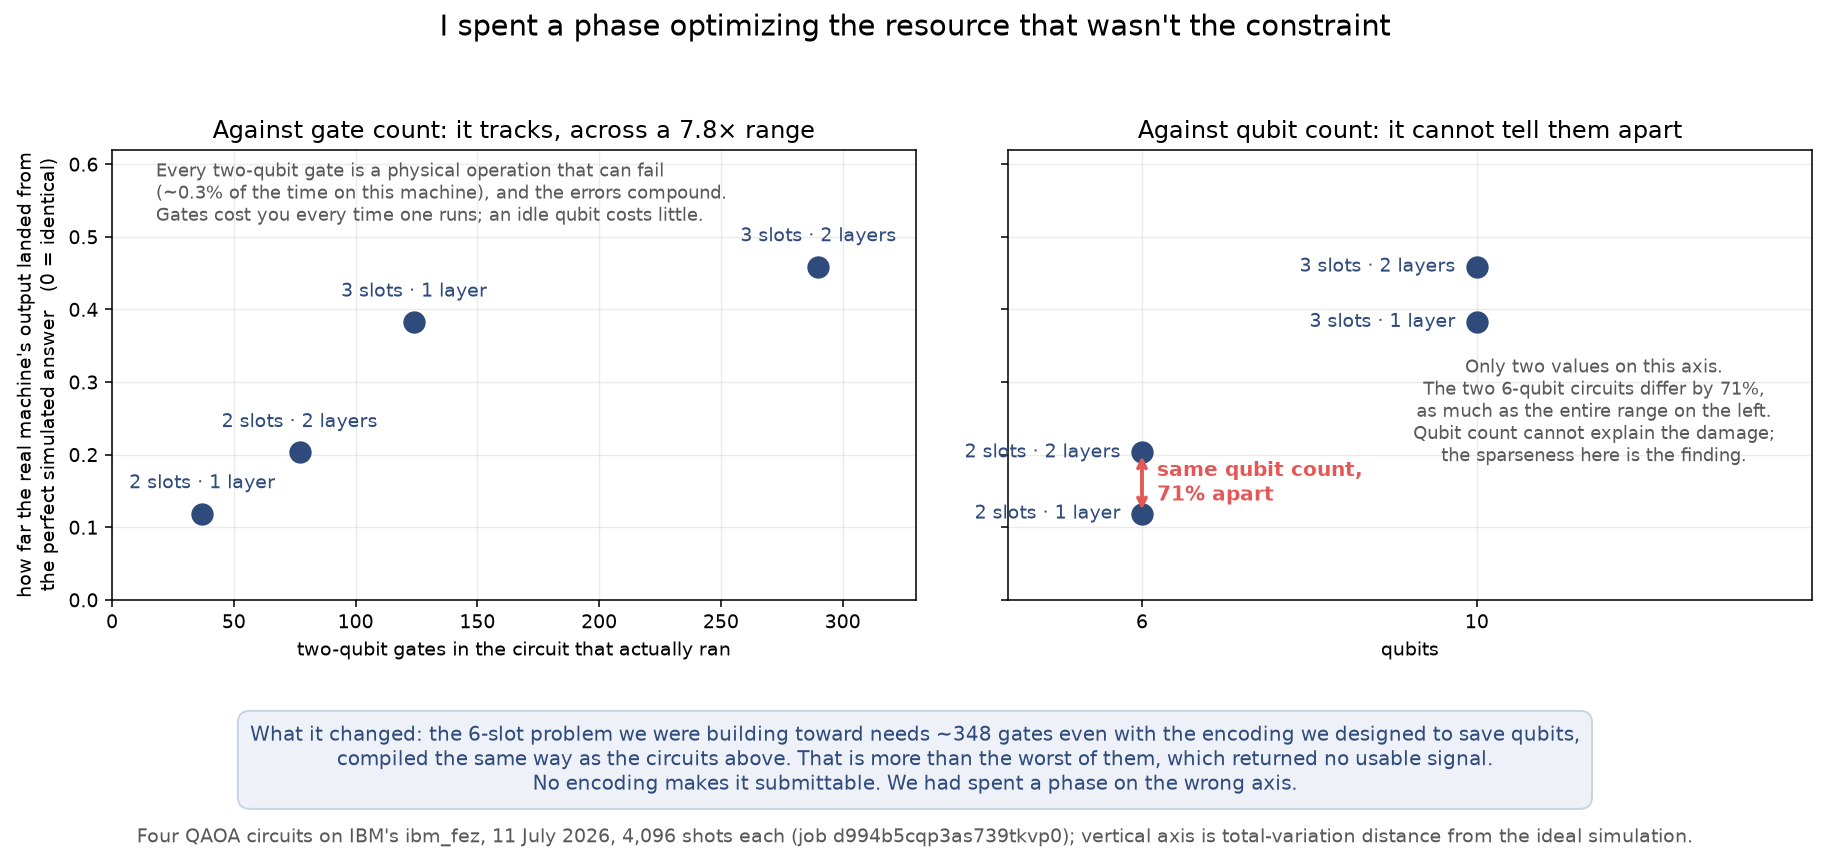
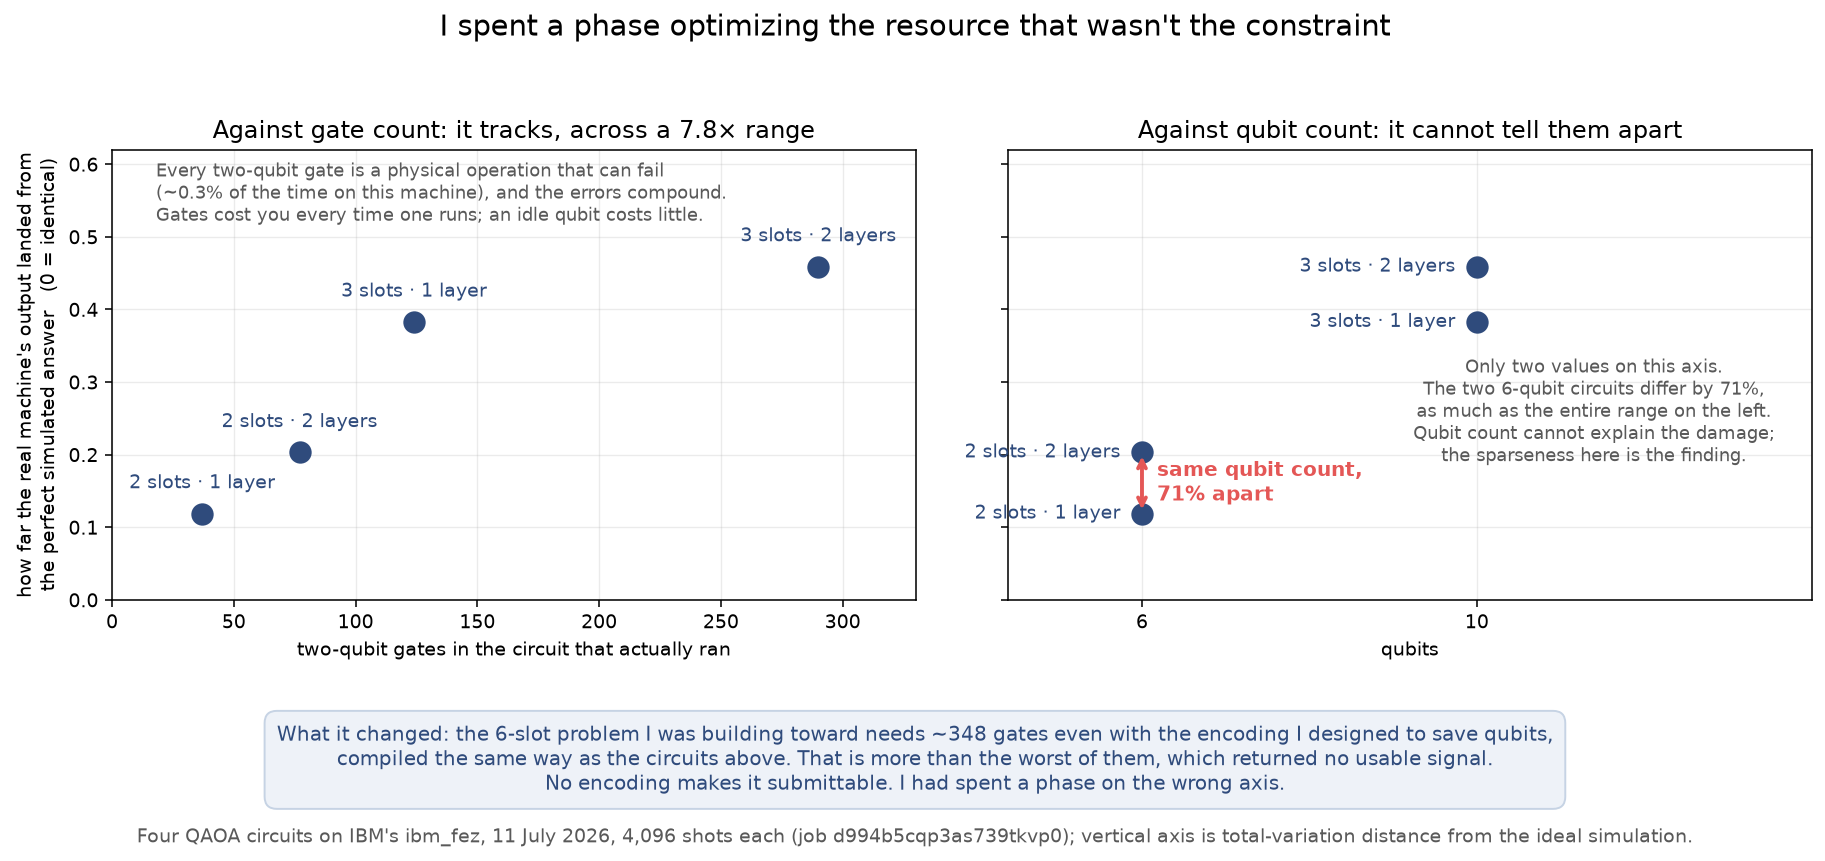
Figure text: first person

Changed region(s): [[0.1249, 0.8153, 0.8745, 0.8757], [0.2811, 0.9059, 0.7184, 0.9361]]

diff --git a/scripts/make_gates_vs_qubits_figure.py b/scripts/make_gates_vs_qubits_figure.py
@@ -196,10 +196,10 @@ def main() -> None:
     # a true claim look false. Like for like it is 348 vs 290, or 269 vs 237.
     fig.text(
         0.5, 0.125,
-        "What it changed: the 6-slot problem we were building toward needs ~348 gates "
-        "even with the encoding we designed to save qubits,\ncompiled the same way as "
+        "What it changed: the 6-slot problem I was building toward needs ~348 gates "
+        "even with the encoding I designed to save qubits,\ncompiled the same way as "
         "the circuits above. That is more than the worst of them, which returned no "
-        "usable signal.\nNo encoding makes it submittable. We had spent a phase on the "
+        "usable signal.\nNo encoding makes it submittable. I had spent a phase on the "
         "wrong axis.",
         ha="center", va="center", fontsize=10.5, color=INK,
         bbox=dict(boxstyle="round,pad=0.6", facecolor="#EEF2F8", edgecolor="#C6D3E4"),

diff --git a/scripts/make_metric_floor_figure.py b/scripts/make_metric_floor_figure.py
@@ -55,7 +55,7 @@ def main() -> None:
         ax0.fill_between(Ts, lo[rp], hi[rp], alpha=0.15, color=line.get_color())
     ax0.set_ylim(-0.02, 1.02)
     ax0.set_ylabel(f"prob. mass on optimal bitstrings ({shots} shots)")
-    ax0.set_title("What we plotted\nsampled: reads exactly 0 in "
+    ax0.set_title("What I plotted\nsampled: reads exactly 0 in "
                   f"{n_zero} of {len(rows)} cells", fontsize=11)
     ax0.annotate("the 'trend' is the metric\nhitting its floor",
                  xy=(Ts[-1], 0.0), xytext=(Ts[1] + 0.35, 0.34),
